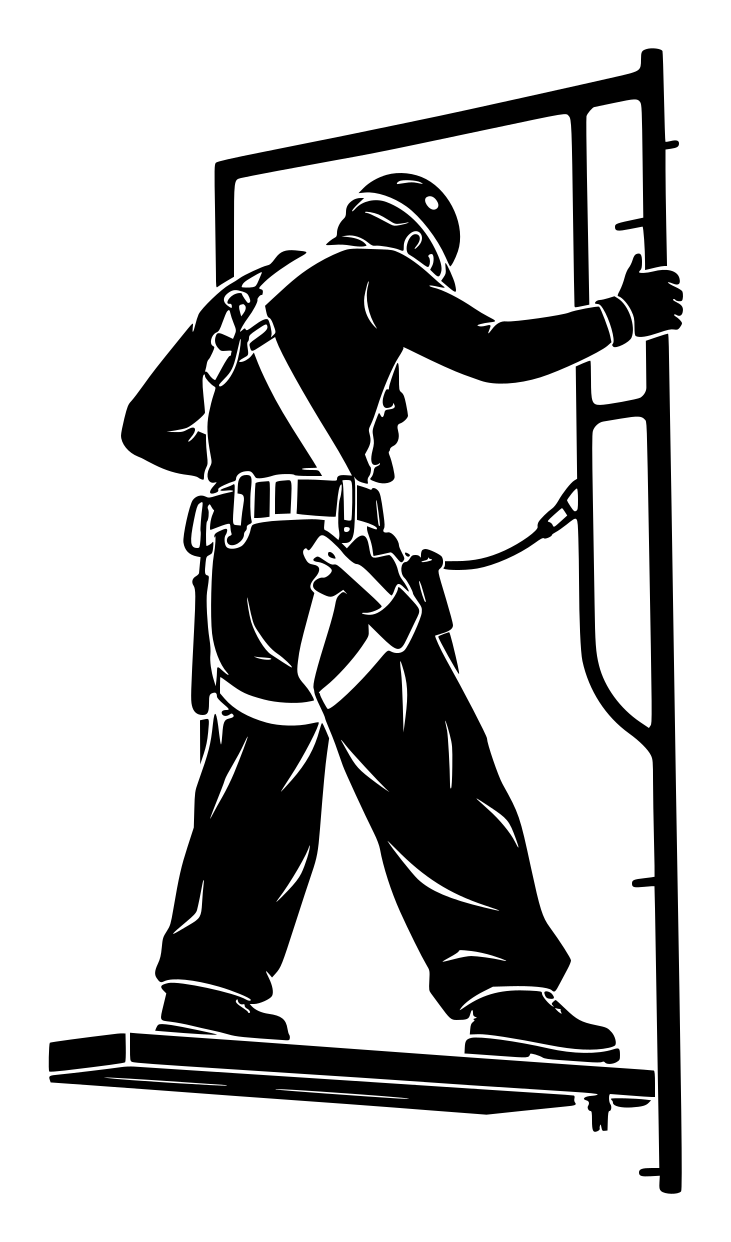
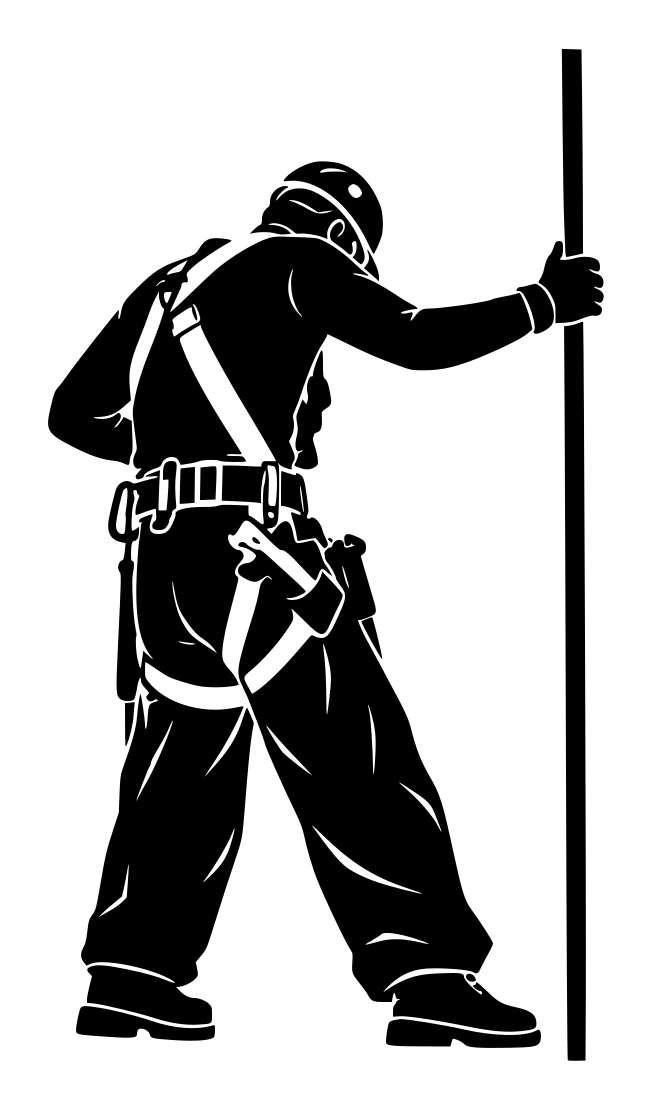
fix: remove extra scaffold members deck and lanyard

Changed region(s): [[0.0613, 0.0307, 0.9509, 0.9811], [0.4294, 0.2453, 0.4601, 0.2759], [0.3067, 0.6745, 0.3374, 0.7051]]

diff --git a/catalog/catalog.md b/catalog/catalog.md
@@ -5,7 +5,7 @@
 | W001 | 仰向け姿勢作業員（フルハーネス） | [`worker_supine_full_harness.svg`](../svg/worker_supine_full_harness.svg) | 作業員 | 仰向けで両腕を上方へ伸ばす姿勢、ヘルメット・フルハーネス着用 |
 | W002 | 高圧洗浄作業員 | [`worker_pressure_washing.svg`](../svg/worker_pressure_washing.svg) | 作業員 | 高圧洗浄ノズル・ホース使用、前傾姿勢 |
 | W003 | 鉄筋結束作業員 | [`worker_rebar_tying.svg`](../svg/worker_rebar_tying.svg) | 作業員 | しゃがみ姿勢で結束工具を使用、ヘルメット・フルハーネス着用 |
-| W004 | 足場組立作業員 | [`worker_scaffold_assembly.svg`](../svg/worker_scaffold_assembly.svg) | 作業員 | 足場上で右手で建枠を支える立ち姿勢、ヘルメット・フルハーネス着用 |
+| W004 | 足場組立作業員 | [`worker_scaffold_assembly.svg`](../svg/worker_scaffold_assembly.svg) | 作業員 | 右手で支柱を支える立ち姿勢、ヘルメット・フルハーネス着用、床材・周囲の足場材・ランヤードを省略 |
 
 ## プレビュー
 
